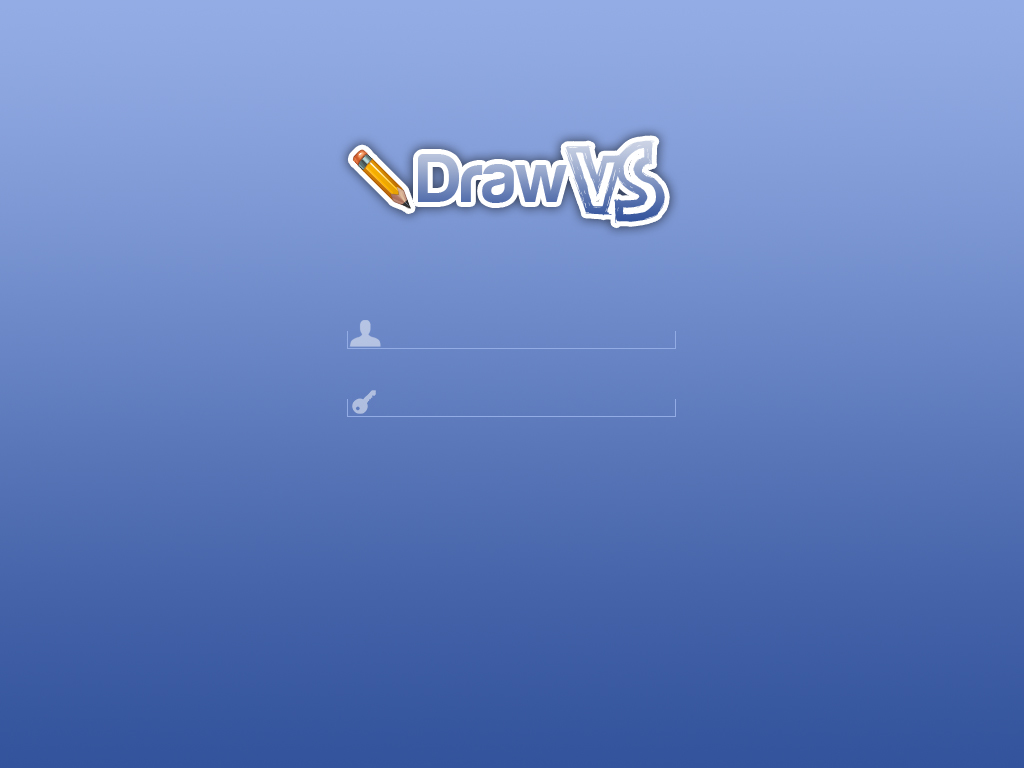
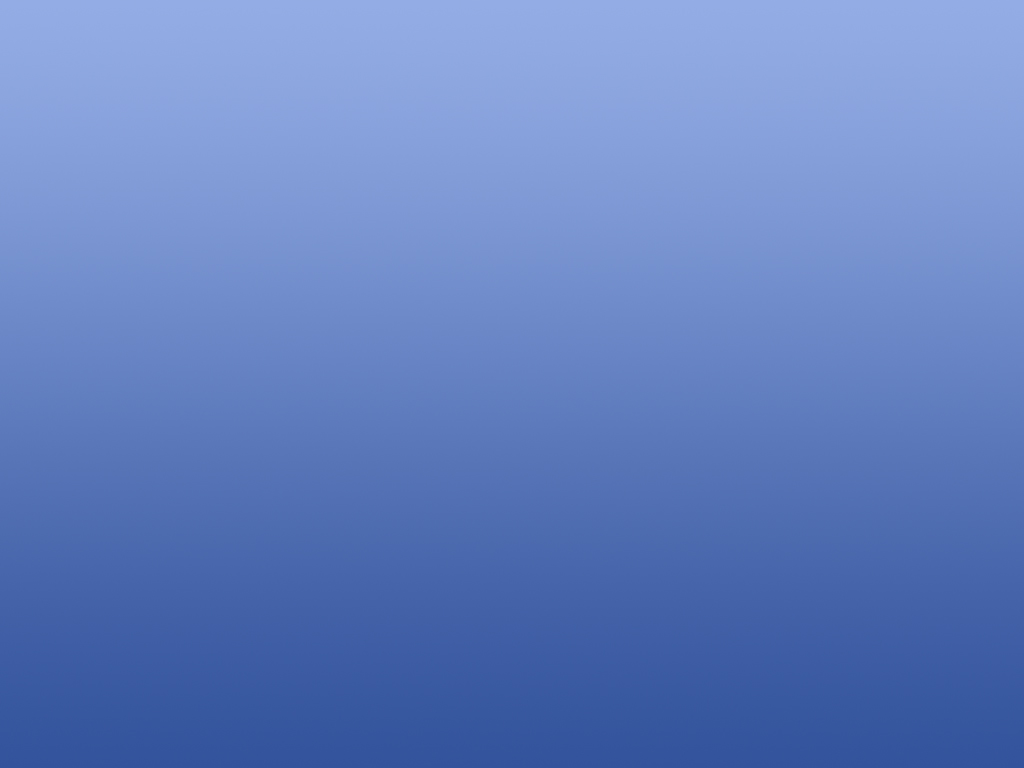
Ecran de login terminé avec le positionnement parfaitement géré

Changed region(s): [[0.3125, 0.1562, 0.6562, 0.3125], [0.3438, 0.5, 0.375, 0.5625], [0.3438, 0.4062, 0.375, 0.4688]]

diff --git a/Client/src/view/Login.java b/Client/src/view/Login.java
@@ -30,7 +30,10 @@ public class Login extends JPanel implements ActionListener{
 	private JPasswordField password;
 	private JLabel newAccount;
 	private JLabel passwordForget;
+    private Image imgLogo = new ImageIcon(getClass().getResource("../ressources/images/logo.png")).getImage();
     private Image imgBackground = new ImageIcon(getClass().getResource("../ressources/images/login.jpg")).getImage();
+    private Image imgFieldUser = new ImageIcon(getClass().getResource("../ressources/images/field_login_username.png")).getImage();
+    private Image imgFieldPass = new ImageIcon(getClass().getResource("../ressources/images/field_login_password.png")).getImage();
     private Font fontBasic = new Font("Arial", Font.PLAIN, 24);
     private Font fontBasicLow = new Font("Arial", Font.PLAIN, 16);
 	
@@ -47,8 +50,9 @@ public class Login extends JPanel implements ActionListener{
 		this.add(btnConnec);
 		this.add(newAccount);
 		this.add(passwordForget);
-		
-		btnConnec.setBounds((int)(490*Main.ratioX),(int)(430*Main.ratioY),210,90);
+
+		int calcWidthUser = (int)(Main.gameWidth-330)/2;
+		btnConnec.setBounds(calcWidthUser+140,(int)(430*Main.ratioY),210,90);
 		btnConnec.setCursor(Cursor.getPredefinedCursor(Cursor.HAND_CURSOR));
 		btnConnec.setOpaque(false);
 		btnConnec.setContentAreaFilled(false);
@@ -58,18 +62,18 @@ public class Login extends JPanel implements ActionListener{
 		login.setBorder(null);
 		login.setForeground(Color.white);
 		login.setFont(fontBasic);
-		login.setBounds((int)(390*Main.ratioX), (int)(320*Main.ratioY), 280, 25);
+		login.setBounds(calcWidthUser+35, (int)(320*Main.ratioY), 280, 25);
 		password.setOpaque(false);
 		password.setBorder(null);
 		password.setForeground(Color.white);
 		password.setFont(fontBasic);
-		password.setBounds((int)(390*Main.ratioX), (int)(390*Main.ratioY), 280, 25);
+		password.setBounds(calcWidthUser+35, (int)(390*Main.ratioY), 280, 25);
 		newAccount.setForeground(Color.white);
 		newAccount.setFont(fontBasicLow);
-		newAccount.setBounds((int)(348*Main.ratioX), (int)(530*Main.ratioY), 300, 30);
+		newAccount.setBounds((int)(Main.gameWidth-330)/2, (int)(540*Main.ratioY), 300, 30);
 		passwordForget.setForeground(Color.white);
 		passwordForget.setFont(fontBasicLow);
-		passwordForget.setBounds((int)(348*Main.ratioX), (int)(560*Main.ratioY), 300, 30);
+		passwordForget.setBounds((int)(Main.gameWidth-330)/2, (int)(570*Main.ratioY), 300, 30);
 		
 		btnConnec.addActionListener(this);
 		login.addActionListener(this);
@@ -77,15 +81,18 @@ public class Login extends JPanel implements ActionListener{
 	}
 	
 	public void paintComponent(Graphics g) {
-		btnConnec.setLocation((int)(490*Main.ratioX  + 188.*(Main.ratioX-1.0)),(int)(430*Main.ratioY));
-		password.setLocation((int)(390*Main.ratioX), (int)(390*Main.ratioY));
-		login.setLocation((int)(390*Main.ratioX), (int)(320*Main.ratioY));
-		newAccount.setLocation((int)(348*Main.ratioX), (int)(530*Main.ratioY));
-		passwordForget.setLocation((int)(348*Main.ratioX), (int)(560*Main.ratioY));
-		
+		int calcWidthUser = (int)(Main.gameWidth-330)/2;
+		btnConnec.setLocation(calcWidthUser+140,(int)(430*Main.ratioY));
+		password.setLocation(calcWidthUser+35, (int)(390*Main.ratioY));
+		login.setLocation(calcWidthUser+35, (int)(320*Main.ratioY));
+		newAccount.setLocation((int)(Main.gameWidth-330)/2, (int)(540*Main.ratioY));
+		passwordForget.setLocation((int)(Main.gameWidth-330)/2, (int)(570*Main.ratioY));
 		
         Graphics2D g2d = (Graphics2D)g;
         g2d.drawImage(imgBackground, 0, 0, (int)Main.gameWidth, (int)Main.gameHeight, this);
+        g2d.drawImage(imgLogo, (int)(Main.gameWidth-346)/2, (int)(50*Main.ratioX), 346, 116, this);
+        g2d.drawImage(imgFieldUser, calcWidthUser, (int)(320*Main.ratioY), 330, 30, this);
+        g2d.drawImage(imgFieldPass, calcWidthUser, (int)(390*Main.ratioY), 330, 30, this);
 	}
 	
 	public void actionPerformed(ActionEvent arg0) {
